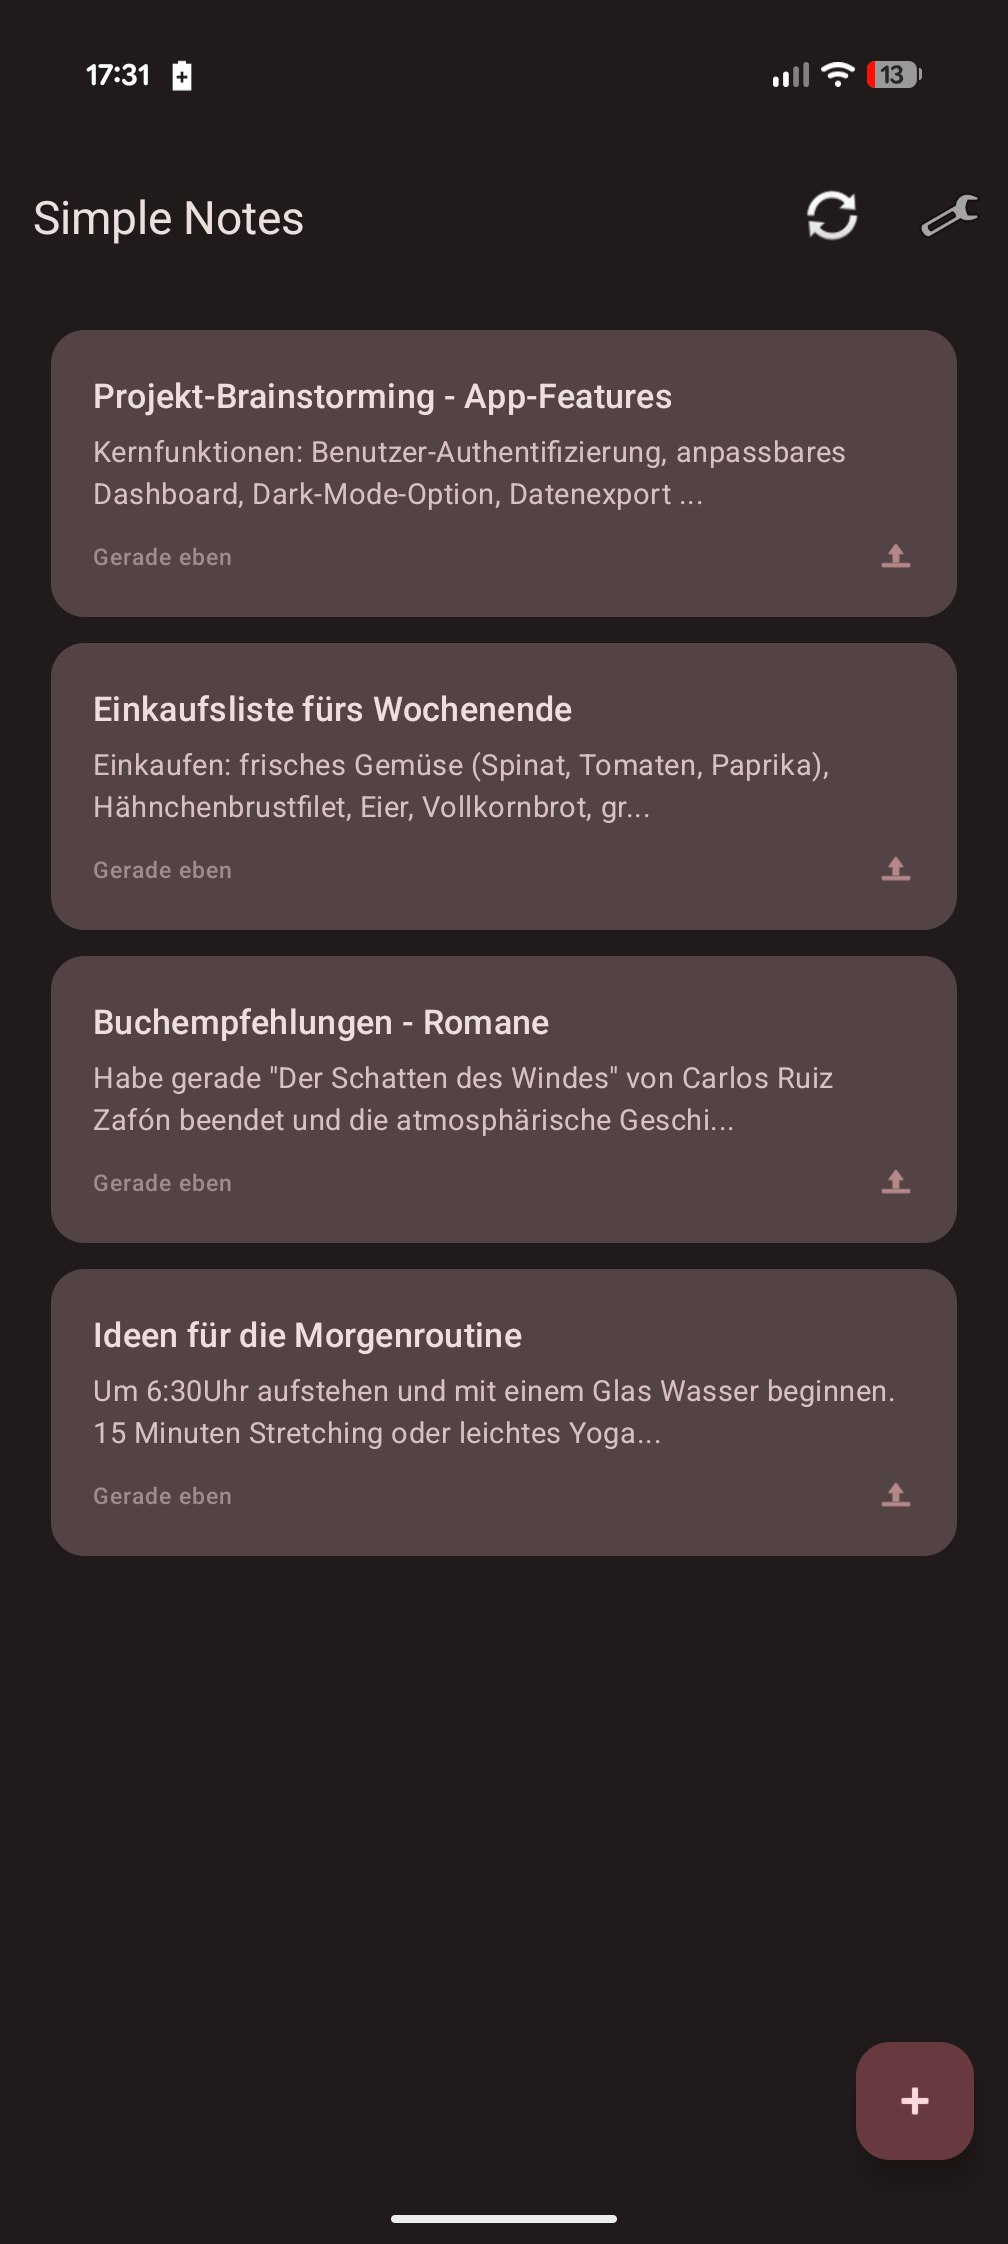
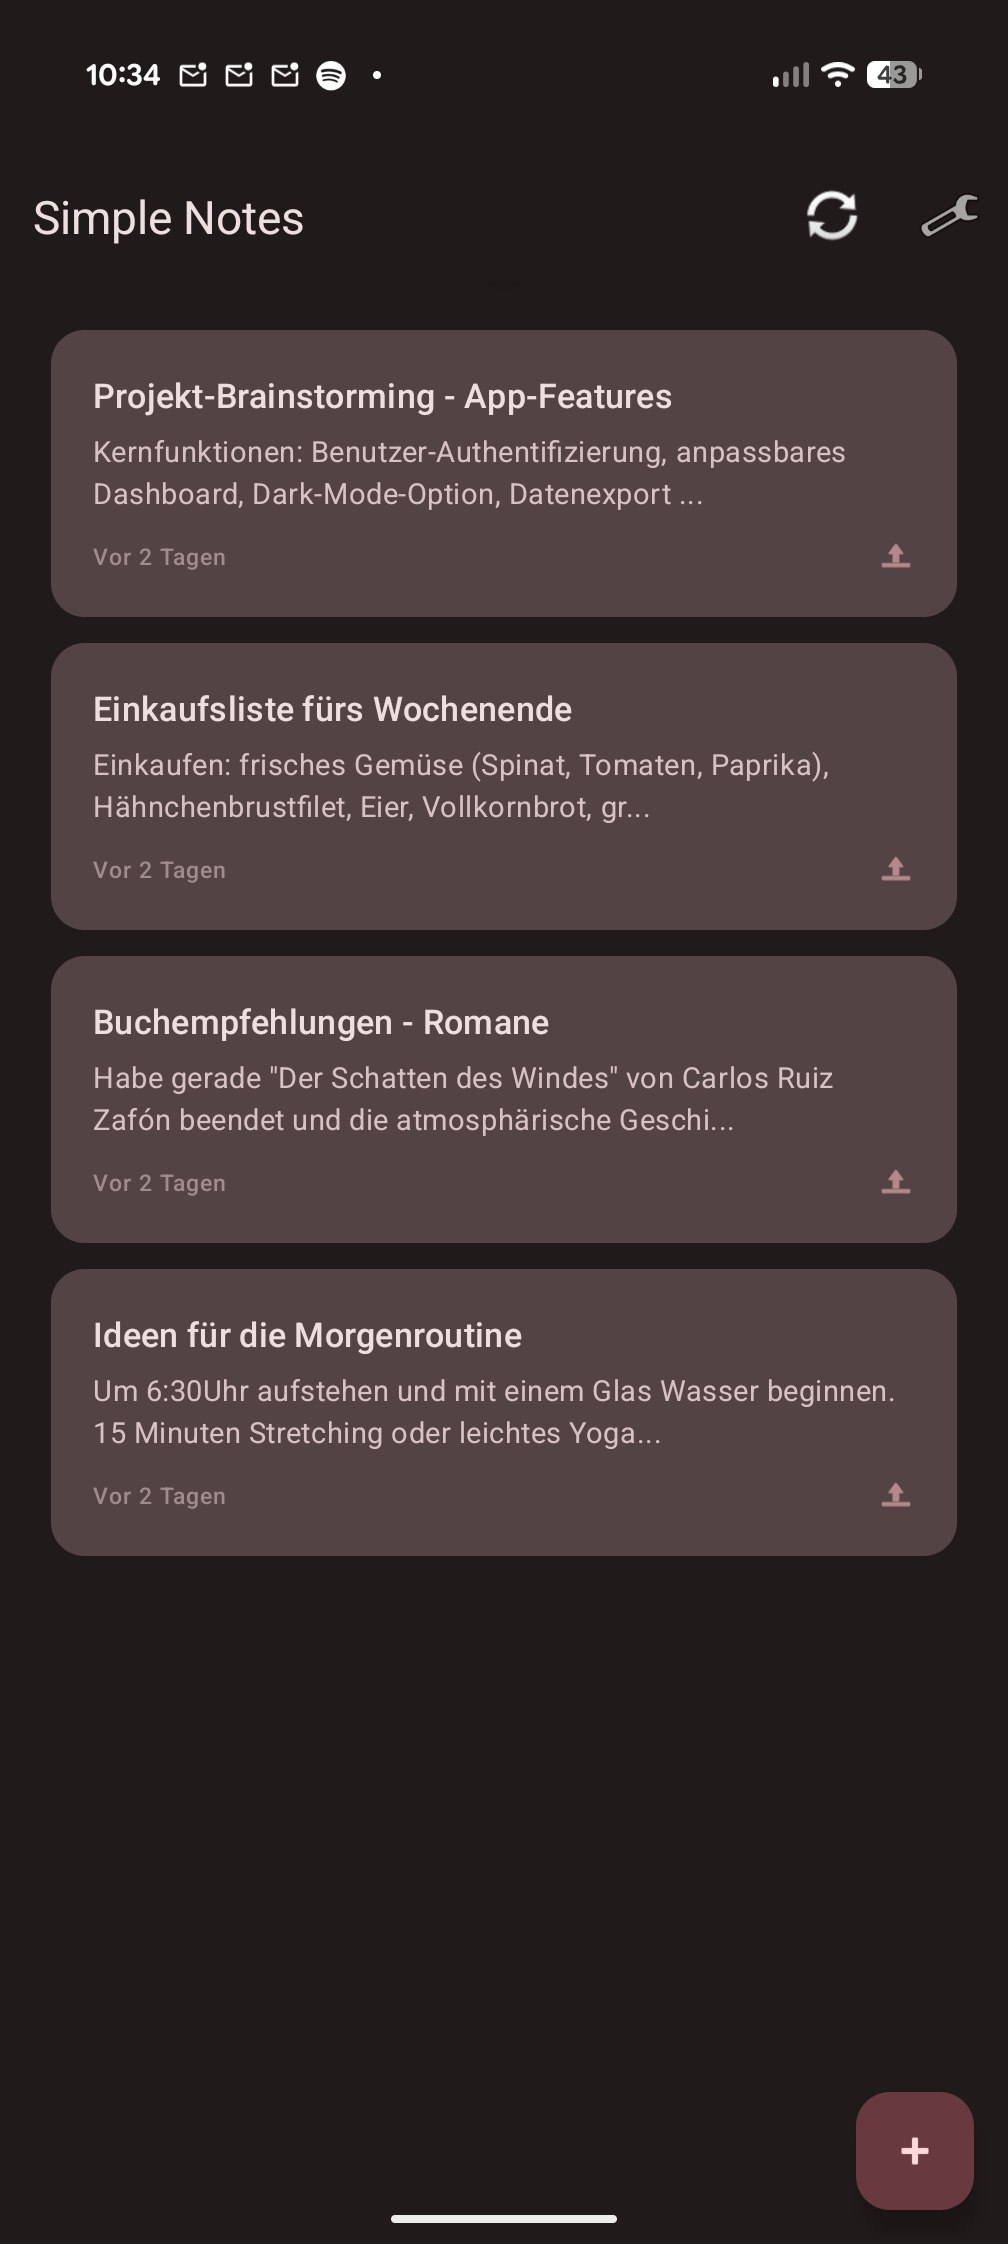
Update changelog paths, enhance README features, and replace screenshots for v1.1.2 [skip ci]

diff --git a/README.en.md b/README.en.md
@@ -25,30 +25,27 @@
 ## Features
 
 ### 📝 Notes
-- Create and edit simple text notes
-- Automatic save
-- Swipe-to-delete with confirmation
+* Simple text notes with auto-save
+* Swipe-to-delete with confirmation
+* Material Design 3 editor
 
 ### 🔄 Synchronization
-- Auto-sync (15/30/60 min intervals)
-- WiFi-based - Sync on home WiFi connection
-- Server check (2s timeout) - No errors in foreign networks
-- Conflict-free merging via timestamps
+* **Pull-to-refresh** for manual sync
+* **Auto-sync** (15/30/60 min) only on home WiFi
+* **Smart server check** - No errors on foreign networks
+* **Conflict-free merging** - Your changes are never lost
 
-### 🏠 Self-Hosted & Privacy
-- WebDAV server (Nextcloud, ownCloud, etc.)
-- Your data stays with you - No tracking, no analytics
-- 100% Open Source (MIT license)
+### 🔒 Privacy & Self-Hosted
+* **WebDAV server** (Nextcloud, ownCloud, etc.)
+* **Docker setup guide** included in docs
+* **Your data stays with you** - No tracking, no cloud
+* **HTTP only local** - HTTPS for external servers
+* **100% open source** (MIT License)
 
 ### 🔋 Performance
-- Battery-friendly (~0.2-0.8% per day)
-- Doze Mode optimized
-- Offline-first - All features work without internet
-
-### 🎨 Material Design 3
-- Dynamic Colors (Material You)
-- Dark Mode
-- Modern, intuitive UI
+* **Battery-friendly** (~0.2-0.8% per day)
+* **Offline-first** - Works without internet
+* **Dark mode** & dynamic colors
 
 ---
 
@@ -105,4 +102,4 @@ Contributions are welcome! See [CONTRIBUTING.md](CONTRIBUTING.md) for details.
 
 MIT License - see [LICENSE](LICENSE)
 
-**v1.1.1** · Built with Kotlin + Material Design 3
+**v1.1.2** · Built with Kotlin + Material Design 3

diff --git a/README.md b/README.md
@@ -25,30 +25,27 @@
 ## Features
 
 ### 📝 Notizen
-- Einfache Textnotizen erstellen und bearbeiten
-- Automatisches Speichern
-- Swipe-to-Delete mit Bestätigung
+* Einfache Textnotizen mit automatischem Speichern
+* Swipe-to-Delete mit Bestätigung
+* Material Design 3 Editor
 
 ### 🔄 Synchronisation
-- Auto-Sync (15/30/60 Min Intervalle)
-- WiFi-basiert - Sync bei Heim-WLAN-Verbindung
-- Server-Check (2s Timeout) - Keine Fehler in fremden Netzwerken
-- Konfliktfreies Merging via Timestamps
+* **Pull-to-Refresh** für manuellen Sync
+* **Auto-Sync** (15/30/60 Min) nur im Heim-WLAN
+* **Smart Server-Check** - Keine Fehler in fremden Netzwerken
+* **Konfliktfreies Merging** - Deine Änderungen gehen nie verloren
 
-### 🏠 Self-Hosted & Privacy
-- WebDAV-Server (Nextcloud, ownCloud, etc.)
-- Deine Daten bei dir - Kein Tracking, keine Analytics
-- 100% Open Source (MIT Lizenz)
+### 🔒 Privacy & Self-Hosted
+* **WebDAV-Server** (Nextcloud, ownCloud, etc.)
+* **Docker Setup-Anleitung** in den Docs enthalten
+* **Deine Daten bleiben bei dir** - Kein Tracking, keine Cloud
+* **HTTP nur lokal** - HTTPS für externe Server
+* **100% Open Source** (MIT Lizenz)
 
 ### 🔋 Performance
-- Akkuschonend (~0.2-0.8% pro Tag)
-- Doze Mode optimiert
-- Offline-First - Alle Features ohne Internet
-
-### 🎨 Material Design 3
-- Dynamic Colors (Material You)
-- Dark Mode
-- Moderne, intuitive UI
+* **Akkuschonend** (~0.2-0.8% pro Tag)
+* **Offline-First** - Funktioniert ohne Internet
+* **Dark Mode** & Dynamic Colors
 
 ---
 
@@ -105,4 +102,4 @@ Beiträge sind willkommen! Siehe [CONTRIBUTING.md](CONTRIBUTING.md) für Details
 
 MIT License - siehe [LICENSE](LICENSE)
 
-**v1.1.1** · Gebaut mit Kotlin + Material Design 3
+**v1.1.2** · Gebaut mit Kotlin + Material Design 3